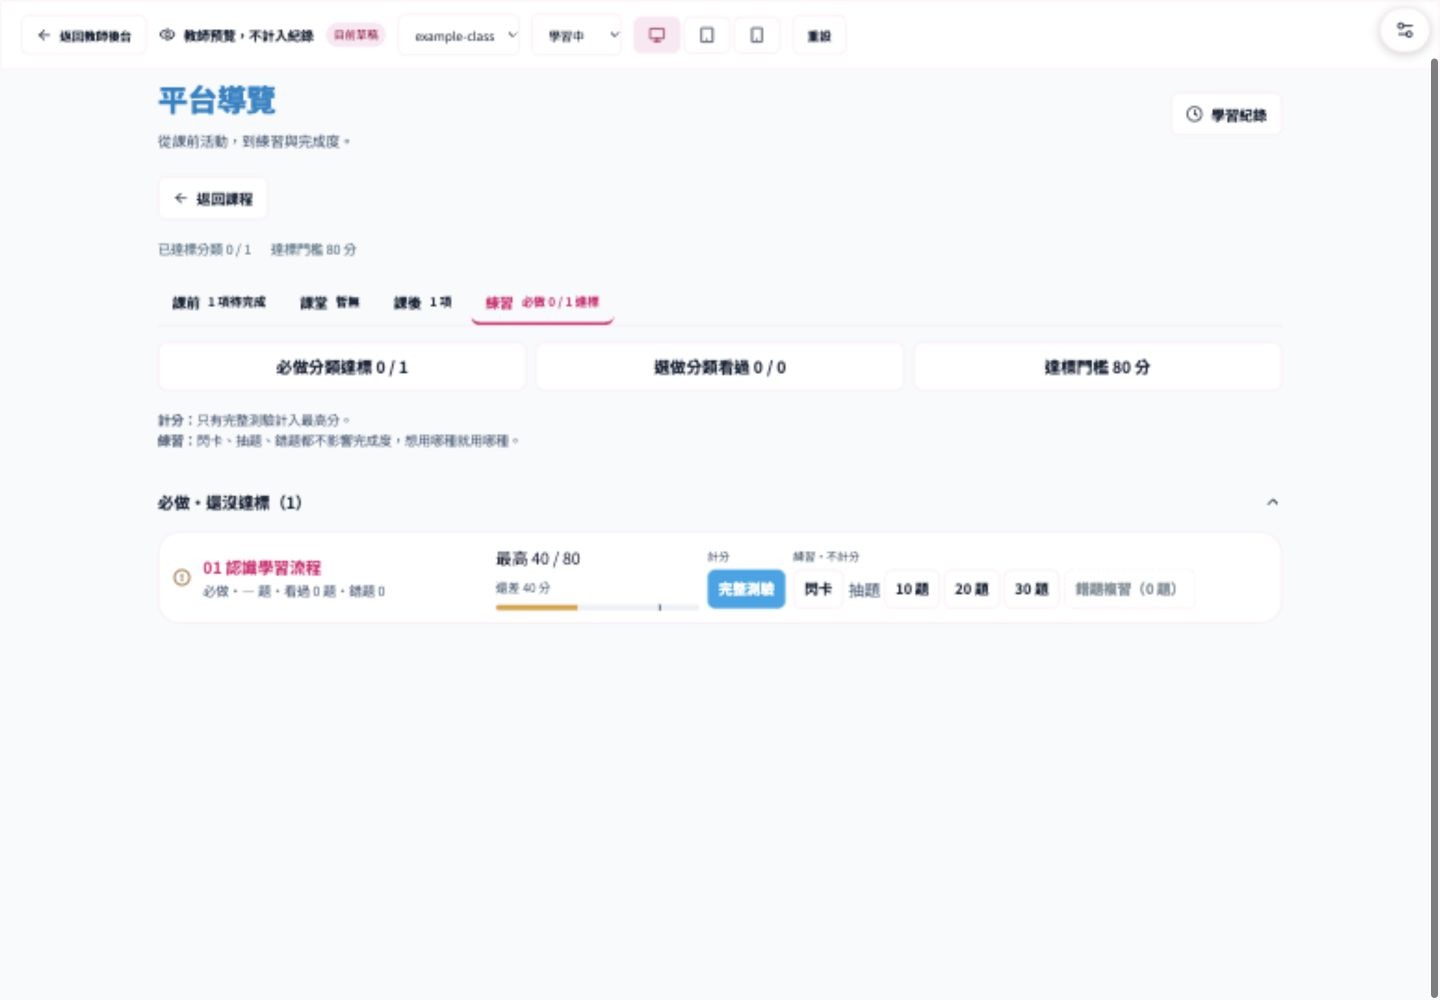
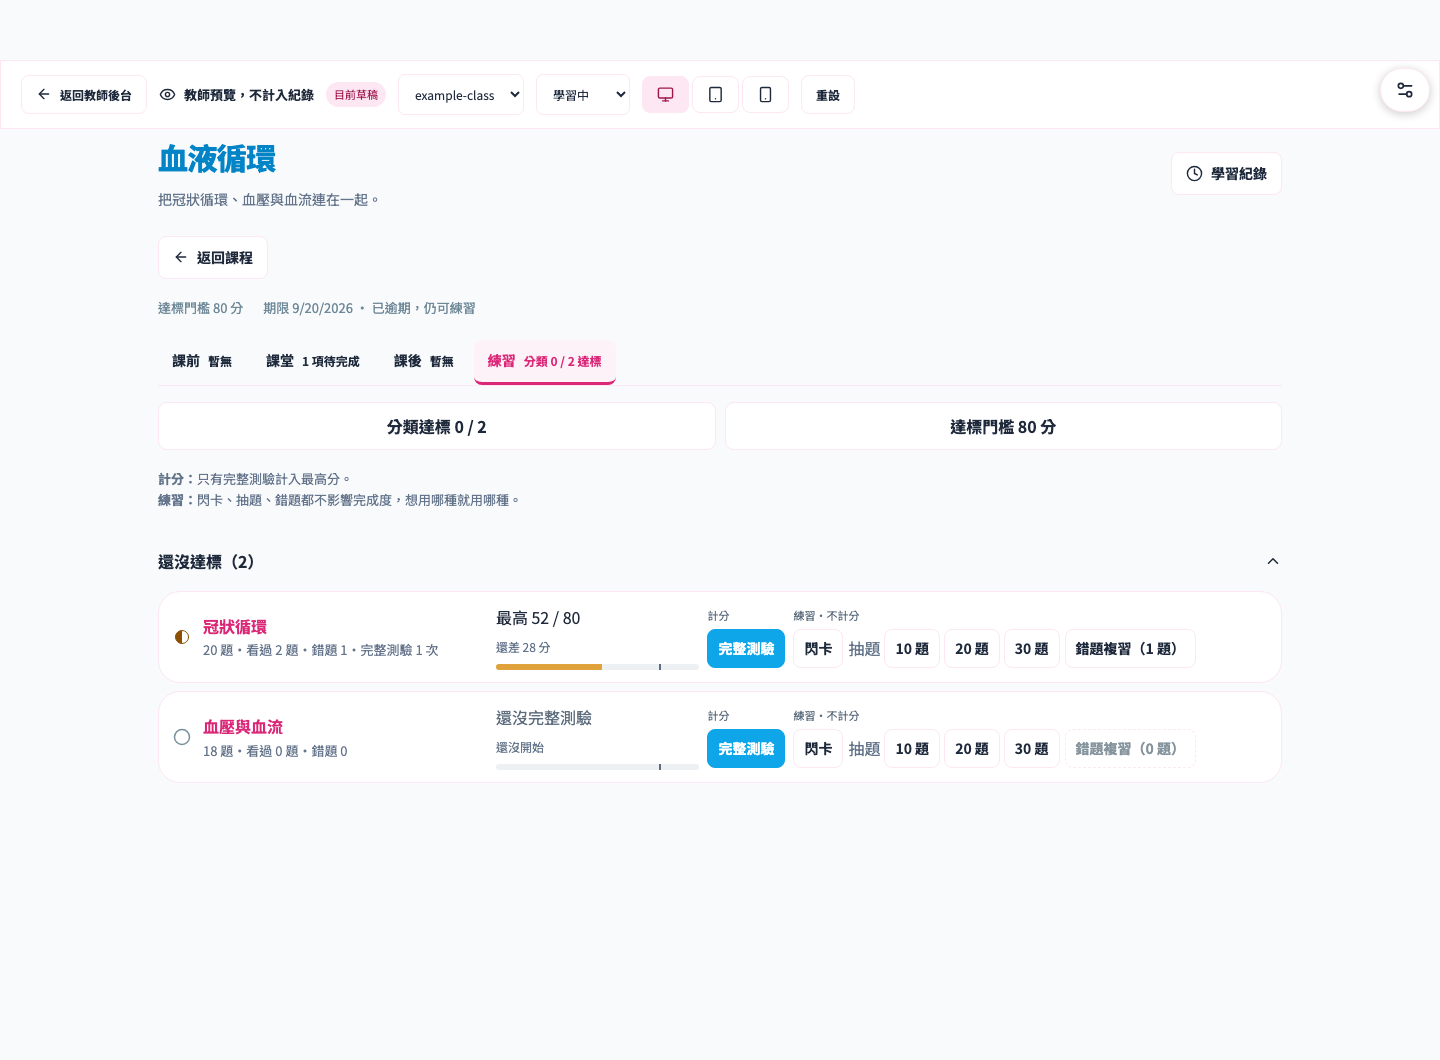
fix: 1.6.0 第三輪收尾——範例課程涵蓋各狀態、下一步顯示分數、驗收紀錄 [Claude]
Claude-Session: https://claude.ai/code/session_01K3TfDPLfPyvFhU8NB28CDy

diff --git a/src/service.ts b/src/service.ts
@@ -111,6 +111,10 @@ export const sampleQuestions: Question[] = [
   },
 ];
 export function sampleCourse(): Course {
+  const unit = (id: string, title: string, group: string, questionCount: number, required = true): Course['units'][number] => ({
+    id, title, group, description: `${title}題目分類`, required, threshold: 80,
+    opensAt: '', dueAt: '', bankVersion: `example-${id}-v1`, questionCount, activities: [],
+  });
   const course: Course = {
     id: 'example-course',
     title: '課程平台・操作示例',
@@ -119,50 +123,86 @@ export function sampleCourse(): Course {
     classIds: ['example-class'],
     sheetsUrl: '',
     units: [
+      unit('heart-structure', '心臟構造', '心臟基礎', 24),
+      unit('cardiac-cycle', '心動週期與心音', '心臟基礎', 30),
+      unit('coronary-flow', '冠狀循環', '血液循環', 20),
+      unit('blood-pressure', '血壓與血流', '血液循環', 18),
+      { ...unit('future-topic', '進階整合', '尚未開放', 16), opensAt: '2099-10-05T08:00' },
+      unit('extension-reading', '延伸閱讀題', '延伸學習', 12, false),
       {
-        id: 'orientation',
-        title: '01 認識學習流程',
-        description: '從課前活動，到練習與完成度。',
-        required: true,
-        threshold: 80,
-        opensAt: '',
-        dueAt: '',
-        bankVersion: 'example-v1',
-        activities: [
-          {
-            id: 'welcome',
-            title: '閱讀學習說明',
-            type: 'link',
-            phase: 'before',
-            url: 'https://www.youtube.com/',
-            description: '正式使用時請替換成自己的教材連結。',
-          },
-          {
-            id: 'practice',
-            title: '平台操作練習',
-            type: 'quiz',
-            phase: 'after',
-            url: '',
-            description: '使用三道示例題體驗一般測驗與閃卡。',
-          },
-        ],
+        ...unit('midterm-review', '期中複習考', '期中複習考', 20),
+        dueAt: '2026-09-22T23:59',
+        review: {
+          sourceUnitIds: ['heart-structure', 'cardiac-cycle'],
+          sourceVersions: { 'heart-structure': 'example-heart-structure-v1', 'cardiac-cycle': 'example-cardiac-cycle-v1' },
+          drawCount: 20, allocation: { 'heart-structure': 10, 'cardiac-cycle': 10 }, builtAt: 1,
+          history: [{ version: 'example-midterm-review-v1', drawCount: 20, allocation: { 'heart-structure': 10, 'cardiac-cycle': 10 }, builtAt: 1 }],
+        },
       },
     ],
   };
-  course.units[0].group = '平台導覽';
-  course.chapters = { 平台導覽: { title: '平台導覽', description: course.units[0].description, required: true, threshold: 80, opensAt: '', dueAt: '', activities: structuredClone(course.units[0].activities), research: { enabled: true } } };
-  course.chapterOrder = ['平台導覽'];
-  course.units[0].activities = [];
+  course.chapters = {
+    心臟基礎: {
+      title: '心臟基礎', description: '認識心臟構造、血流與心動週期。', required: true, threshold: 80,
+      opensAt: '', dueAt: '2026-10-06T23:59', research: { enabled: true },
+      activities: [
+        { id: 'heart-map', title: '互動心臟圖', type: 'html', tracking: 'interactive', phase: 'before', url: '', description: '依節點探索心臟構造。', required: true, nodeTotal: 6, questionTotal: 11 },
+        { id: 'heart-video', title: '心臟構造補充影片', type: 'youtube', phase: 'after', url: 'https://youtu.be/abcdefghijk', description: '選看補充影片。', required: false },
+      ],
+    },
+    血液循環: {
+      title: '血液循環', description: '把冠狀循環、血壓與血流連在一起。', required: true, threshold: 80,
+      opensAt: '', dueAt: '2026-09-20T23:59', research: { enabled: true },
+      activities: [{ id: 'flow-map', title: '血流路徑互動圖', type: 'html', tracking: 'interactive', phase: 'during', url: '', description: '依序完成血流節點。', required: true, nodeTotal: 6, questionTotal: 11 }],
+    },
+    尚未開放: { title: '尚未開放', description: '示範鎖定中的單元。', required: true, threshold: 80, opensAt: '2099-10-05T08:00', dueAt: '', activities: [] },
+    延伸學習: {
+      title: '延伸學習', description: '有餘力時自由探索，不計入完成度。', required: false, threshold: 80,
+      opensAt: '', dueAt: '', activities: [{ id: 'extension-video', title: '循環生理延伸影片', type: 'youtube', phase: 'after', url: 'https://youtu.be/abcdefghijk', description: '選看延伸內容。', required: false }],
+    },
+    期中複習考: { title: '期中複習考', description: '從已學分類抽題的複習作業。', required: true, threshold: 80, opensAt: '', dueAt: '2026-09-22T23:59', activities: [] },
+  };
+  course.chapterOrder = ['心臟基礎', '血液循環', '尚未開放', '延伸學習', '期中複習考'];
   return course;
+}
+export function sampleProgress(course: Course, state: string): Progress {
+  const progress = emptyProgress();
+  const now = Date.now();
+  if (state === 'none') return progress;
+  if (state === 'complete') {
+    for (const unit of course.units) progress.units[unit.id] = { best: 100, attempts: 2, fullAttempts: 2, updatedAt: now, passedAt: now };
+    for (const [name, chapter] of Object.entries(course.chapters || {})) {
+      for (const activity of chapter.activities) progress.activities[`chapter:${name}_${activity.id}`] = { position: activity.nodeTotal || 120, completed: true, updatedAt: now };
+    }
+    return progress;
+  }
+  progress.units = {
+    'heart-structure': { best: 88, attempts: 2, fullAttempts: 2, updatedAt: now, wrong: { 'example-heart-structure-v1': { 'example-2': { n: 1, at: now } } } },
+    'cardiac-cycle': { best: 84, attempts: 1, fullAttempts: 1, updatedAt: now },
+    'coronary-flow': { best: 52, attempts: 1, fullAttempts: 1, updatedAt: now, wrong: { 'example-coronary-flow-v1': { 'example-1': { n: 2, at: now } } } },
+    'extension-reading': { best: -1, attempts: 1, updatedAt: now },
+    'midterm-review': { best: 92, attempts: 1, fullAttempts: 1, updatedAt: now, passedAt: Date.parse('2026-09-24T08:00:00+08:00') },
+  };
+  progress.attempted = {
+    'heart-structure': { 'example-1': true, 'example-2': true, 'example-3': true },
+    'cardiac-cycle': { 'example-1': true, 'example-2': true },
+    'coronary-flow': { 'example-1': true, 'example-2': true },
+    'extension-reading': { 'example-1': true },
+  };
+  progress.activities = {
+    'chapter:心臟基礎_heart-map': { position: 6, completed: true, updatedAt: now },
+    'chapter:心臟基礎_heart-video': { position: 95, completed: false, updatedAt: now },
+    'chapter:血液循環_flow-map': { position: 3, completed: false, updatedAt: now },
+    'chapter:延伸學習_extension-video': { position: 180, completed: true, updatedAt: now },
+  };
+  return progress;
 }
 export function memoryApi(initial = sampleCourse(), bank: Question[] = sampleQuestions): API {
   let draft = structuredClone(initial),
     published = structuredClone(initial),
     progress = emptyProgress();
   const attempts: Attempt[] = [];
-  const banks = new Map<string, Question[]>([
-    [initial.units[0]?.bankVersion || 'example-v1', bank],
-  ]);
+  const banks = new Map<string, Question[]>(initial.units.filter((unit) => !!unit.bankVersion).map((unit) => [unit.bankVersion, bank]));
   const reports = new Map<string, Report>(),
     seen = new Map<string, Record<string, Seen>>();
   let roster: any[] = [],

diff --git a/src/Student.tsx b/src/Student.tsx
@@ -57,7 +57,7 @@ import {
   UnitProgressSummary,
   itemStatusForCategory,
 } from '../shared/model';
-import { API, cachedBank, enqueue, dequeue, pending } from './service';
+import { API, cachedBank, enqueue, dequeue, pending, sampleProgress } from './service';
 import { Youtube, HtmlMaterial } from './Player';
 import { parseStudentRoute } from './studentRoute';
 import ThemePicker from './ThemePicker';
@@ -170,15 +170,7 @@ export default function Student({
       .then((p) => {
         if (!active) return;
         if (preview && sim !== 'none') {
-          p = emptyProgress();
-          course.units.forEach((u, i) => {
-            if (sim === 'complete' || i === 0)
-              p.units[u.id] = {
-                best: sim === 'complete' ? 100 : 40,
-                attempts: 1,
-                updatedAt: Date.now(),
-              };
-          });
+          p = sampleProgress(course, sim);
         }
         if (preview) void api.call('setPreviewProgress', { progress: p });
         setProgress(p);
@@ -505,8 +497,8 @@ function ProgressUnitCard({ index, row, progress, route }: { index: number; row:
     <header><span className="unitnumber">{String(index).padStart(2, '0')}</span><span className="badge">{review ? '作業・複習考' : summary.required ? '必做單元' : '選看單元'}</span>{summary.required && <span className={`status status-${summary.state}`}>{summary.state === 'overdue' && <AlertCircle size={15} aria-hidden="true" />}{review && summary.state === 'done' && isOverdue(chapter, progress.units[units[0].id]) ? '已完成（逾期）' : statusLabel}</span>}<button className="expand" aria-expanded={expanded} aria-label={`${expanded ? '收合' : '展開'}${chapter.title}`} onClick={open}>{expanded ? <ChevronUp size={18} /> : <ChevronDown size={18} />}</button></header>
     <button className="progress-unit-title" onClick={() => go()}><h3>{chapter.title}</h3><strong>{summary.required ? `完成 ${summary.doneCount} / ${summary.totalCount} 項` : `看過 ${[...categories, ...optionalActivities].filter((item) => item.status !== 'todo').length} / ${categories.length + optionalActivities.length} 項`}</strong></button>
     {review && <p>每次 {units[0].review!.drawCount} 題・需達 {chapter.threshold} 分</p>}{summary.dueAt && summary.required && summary.state !== 'done' && <p className={summary.state === 'overdue' ? 'due overdue' : 'due'}>期限 {new Date(summary.dueAt).toLocaleDateString()}・{summary.daysLeft! < 0 ? `已過 ${Math.abs(summary.daysLeft!)} 天` : `還有 ${summary.daysLeft} 天`}</p>}
-    {summary.required && <><div className="progress-dots" aria-label={`必做項目完成 ${summary.doneCount} / ${summary.totalCount}`}>{summary.requiredItems.map((item) => <i key={`${item.kind}-${item.id}`} className={`dot ${item.status} ${summary.state === 'overdue' && item.status !== 'done' ? 'late' : ''}`} />)}</div><p>題目分類 {categories.filter((item) => item.status === 'done').length} / {categories.length} 達標・活動 {activities.filter((item) => item.status === 'done').length} / {activities.length} 完成</p></>}
-    {summary.required && summary.next && summary.state !== 'done' && <button className={`next-step ${summary.state === 'overdue' ? 'late' : ''}`} onClick={() => go(summary.next)}>{review ? `開始作答（${units[0].review!.drawCount} 題）` : <>{summary.next.required ? (summary.next.kind === 'category' ? '還沒達標：' : '還沒完成：') : '選做：'}{summary.next.title}<span>{summary.next.kind === 'category' ? '去練習' : '前往'}</span></>}</button>}
+    {summary.required && <><div className="progress-dots" aria-label={`必做項目完成 ${summary.doneCount} / ${summary.totalCount}`}>{summary.requiredItems.map((item) => <i key={`${item.kind}-${item.id}`} className={`dot ${item.status} ${summary.state === 'overdue' && item.status !== 'done' ? 'late' : ''}`} />)}</div><p>{[categories.length ? `題目分類 ${categories.filter((item) => item.status === 'done').length} / ${categories.length} 達標` : '', activities.length ? `活動 ${activities.filter((item) => item.status === 'done').length} / ${activities.length} 完成` : ''].filter(Boolean).join('・')}</p></>}
+    {summary.required && summary.next && summary.state !== 'done' && <button className={`next-step ${summary.state === 'overdue' ? 'late' : ''}`} onClick={() => go(summary.next)}>{review ? `開始作答（${units[0].review!.drawCount} 題）` : <>{summary.next.required ? (summary.next.kind === 'category' ? '還沒達標：' : '還沒完成：') : '選做：'}{summary.next.title}{summary.next.kind === 'category' && (summary.next.best ?? -1) >= 0 ? `（最高 ${summary.next.best} / ${chapter.threshold} 分）` : ''}<span>{summary.next.kind === 'category' ? '去練習' : '前往'}</span></>}</button>}
     {expanded && <ProgressDetails categories={categories} activities={activities} optionalActivities={optionalActivities} threshold={chapter.threshold} />}
   </article>;
 }

diff --git a/docs/PROGRESS_UI_1.6.0_ACCEPTANCE.md b/docs/PROGRESS_UI_1.6.0_ACCEPTANCE.md
@@ -34,3 +34,56 @@
 19. `tests/preview.test.ts` 仍在比對舊文案（如 `/已達標分類/`、`最高分 \{bestLabel\}`）；請更新為新介面實際文案，避免測試保護到已移除的畫面。
 
 修正完成後在 handoff 標示「1.6.0 第二輪待 Claude 驗收」。仍不 push、不部署。
+
+---
+
+# 第二輪驗收（2026-09-29 晚）
+
+對象：`bb6f734..0b46847`｜結果：**第一輪 A、B、C 大致完成，但有 1 項回歸錯誤與 5 項小修，修正後即可通過**
+
+已確認：v4 公式與 v3 並存、`summarizeUnit` 排除無題庫分類、選看單元整體視為選做、舊活動鍵 fallback、鎖定單元不進待辦、複習考標示補回、`focus` 定位與高亮、展開內容分組與收合、狀態圖示、手機「練習 ▾」選單、flashcard 不寫 `passedAt` 的 functions 測試、截圖。
+
+## 必修
+
+20. **回歸：`forClass()` 不再把單元（Chapter）的必做設定帶到題目分類**。原本 `required: chapter.required`（含各班覆寫），現在刪掉了，改用分類自己的 `u.required`。但下列地方仍把 `u.required` 當成「該班此單元是否必做」使用：
+    - `src/App.tsx` 完成度看板「待完成」欄與 CSV 匯出「待完成」欄（`forClass(...).units.filter((u) => u.required && !complete(...))`）→ 班級覆寫為「非必做」的單元，現在仍會列為待完成。
+    - `functions/src/index.ts` `saveCourse` 的「尚未指定題庫」檢查。
+    - `unitCompletion()` v1／v2 歷史公式。
+    修正：`forClass()` 恢復 `required: chapter.required`（見第 26 項：題目分類一律必做）。加測試：班級覆寫單元為非必做時，教師看板待完成不列出該單元的分類；v1／v2 結果與 1.5.x 相同。
+21. **單元頁頂端舊統計仍在**：`src/Student.tsx` 約 396 行「已達標分類 x / y」仍把選做分類算入分母、把無題庫分類算成已達標，與練習分頁標籤數字不一致。刪除這一行（分頁標籤與練習分頁摘要已顯示同樣資訊），只保留「達標門檻 80 分」或一併刪除。
+
+## 小修
+
+22. 首頁展開的「學習活動」把選做活動混進課前／課堂／課後分組，分組標題「課後・0 / 1 完成」因此把選做算進去（截圖中的「平台操作練習」）。分組只放必做活動；選做活動與選做分類一起放在最下方「選做（不計完成度）」收合列。
+23. `partial` 狀態目前用驚嘆號圖示（`AlertCircle`），與「逾期」的語意撞在一起。`partial` 改用半圓（lucide 無半圓時可用 `CircleDashed` 以外的自繪 SVG 半實心圓），驚嘆號只留給逾期。
+24. （併入第 26 項）
+25. 截圖只用了 1 個單元、1 個分類的範例課程，看不到多分類、選做、已達標、逾期、未開放、選看單元與複習考卡片。請在教師預覽用一份能涵蓋這些狀態的範例資料重拍首頁（收合、展開）與練習分頁；截圖寬度至少 1280（目前字太小難以辨識）。
+
+## 教師決定（2026-09-29 晚）：題目分類一律必做
+
+26. 教師確認**題目分類一定是必做**，沒有「選做分類」。「選做／選看」只存在於兩個層級：**整個單元**（`Chapter.required === false`）與**學習活動**（`Activity.required` 覆寫）。請：
+    - **撤回完成度公式 v4**：`CURRENT_COMPLETION_FORMULA_VERSION` 改回 3，刪除 v4 分支與其測試（盤點結果 0 位學生受影響，撤回無資料影響）；`chapterCompletion` 回到 v3 寫法。
+    - `summarizeUnit`：分類的 `required` 一律等於單元的 `required`，不讀 `u.required`。
+    - 練習分頁：移除「選做・不計完成度」分類區與「選做分類看過」卡片；摘要改為「分類達標 x / y」「達標門檻 80 分」兩欄；列上的「必做／選做」字樣移除（選看單元內的分類以淡色列呈現即可，不另標）。
+    - 首頁展開：移除「選做題目分類」收合列；最下方「選做（不計完成度）」只放選做活動。
+    - 規格 `docs/1.6.0-學習進度介面規格.md`「教師的決定」第 5 點改為「題目分類一律必做；選做只在單元與活動層級」，並刪去各節的選做分類描述；`handoff.md` 固定決策同步。
+
+修正後在 handoff 標示「1.6.0 第三輪待 Claude 驗收」。仍不 push、不部署。
+
+---
+
+# 第三輪驗收（2026-09-29 夜）— **通過**
+
+對象：`76b7216`、`01b4845` 與 Claude 接手的收尾 commit（Codex 中途停止，未提交的範例資料由 Claude 檢查後一併提交）。
+
+- 第 20 項：`forClass()` 已恢復 `required: chapter.required`（含班級覆寫），並有測試。
+- 第 21 項：單元頁頂端舊統計已移除，只留門檻與期限。
+- 第 22 項：選做活動已移出課前／課堂／課後分組，只放在「選做（不計完成度）」收合列。
+- 第 23 項：做到一半改用半實心圓，驚嘆號只用於逾期。
+- 第 25 項：教師預覽範例課程擴充為五個單元（已完成、逾期、未開放、複習考逾期完成、選看單元），首頁收合／展開、練習分頁截圖已依新資料重拍（1440 寬）。手機練習選單截圖仍是第二輪資料，功能未變。
+- 第 26 項：公式回到 v3、分類必做跟隨單元、練習分頁與首頁的選做分類畫面已移除；規格與 handoff 已同步。
+- Claude 收尾小修：首頁卡片「下一步」在分類有分數時加註「（最高 x / 門檻 分）」；卡片統計行在沒有必做活動時不再顯示「活動 0 / 0 完成」（複習考卡片）。
+
+驗證（Claude 在隔離的 Linux 副本重新安裝相依套件後執行）：前端測試 108/108、`tsc -b` 與 `vite build` 通過、Functions build 與測試 16/16 通過。
+
+**尚待教師**：在教師預覽（範例課程、學習中狀態）實際點一次首頁與練習分頁，滿意後再合併與部署。部署前另需實測：學生以完整閃卡滿分作答後最高分不變、完整測驗達標後單元變為已完成。

diff --git a/handoff.md b/handoff.md
@@ -21,7 +21,7 @@
 | 正式站 | **1.5.0**。`origin/main`＝`82e7140`（2026-09-23 部署：Functions 39 個 Deploy complete、Pages Actions 成功、`version.json`＝1.5.0） |
 | 開發分支 | `feature/1.5.0-review-exam` 已等於正式 main；本機 `main` 未更新（deploy.sh 不動本機 main） |
 | 1.5.0 複習考 | 已上線。規格 `docs/REVIEW_EXAM_1.5.0.md` |
-| 1.6.0 學習進度介面 | **1.6.0 第二輪待 Claude 驗收**。`feature/1.6.0-progress-ui`：第一輪三個 commit `3520b89`、`8f94197`、`959af99` 原樣保留，第二輪依 A → B → C 追加。A-1 正式 Firestore 唯讀盤點（2026-09-29）：1 份 course、101 份 progress、已發布選做分類 0 個；逐學生逐單元比較 v3 與 v4，完成狀態改變 **0 位學生／0 個單元**。首頁維持單一 progress 文件，新增讀取 0 次。現有 progress 活動欄位只有 `position/completed/updatedAt`，沒有已看節點數與已答題數；首頁因此以 `position` 顯示「節點 x / y」，無法顯示題目 x / y，未為此增加讀取。截圖在 `docs/progress-ui-1.6.0-screenshots/`；未 push、未合併、未部署。 |
+| 1.6.0 學習進度介面 | **1.6.0 第三輪修正完成，待教師在教師預覽確認後合併**。`feature/1.6.0-progress-ui`：第一輪 `3520b89`、`8f94197`、`959af99`，第二輪 `bb6f734`、`8a4c89f`、`0b46847`，第三輪 `76b7216`、`01b4845` 與 Claude 接手的收尾 commit。教師決定題目分類一律必做，v4 已撤回、公式維持 v3（盤點 101 份 progress，v3／v4 差異 0）。`forClass()` 恢復以 Chapter（含班級覆寫）決定分類必做。首頁維持單一 progress 文件，新增讀取 0 次。progress 活動欄位只有 `position/completed/updatedAt`，互動教材只能顯示「節點 x / y」。教師預覽範例課程已擴充為涵蓋已完成、逾期、未開放、複習考、選看單元的示例資料；截圖在 `docs/progress-ui-1.6.0-screenshots/`（手機選單截圖為第二輪舊資料）。驗收紀錄 `docs/PROGRESS_UI_1.6.0_ACCEPTANCE.md`。未 push、未合併、未部署。 |
 | 教材元件庫 v1 | `feature/material-kit`：心臟構造樣板已完成，待 Claude 驗收；其他教材尚未轉換 |
 | 心臟構造圖像強化版 v2 | `feature/heart-structure-v2`：第二輪（版型比照傳導系統 v2、閱讀提示與窄版捲動）**2026-09-25 Claude 驗收通過**；Claude 將節點示意圖改為 HTML 方塊修正文字溢框。已登錄目錄。待教師以 deploy.sh 從此分支部署。 |
 | 未追蹤檔 | `public/materials/coagulation-v1/`：既有資料，不要碰、不要 commit（已列入本機 `.git/info/exclude`，deploy.sh 的乾淨檢查不會被擋） |
@@ -63,7 +63,7 @@ zsh -ilc 'source ~/.nvm/nvm.sh && nvm use 22.23.2 >/dev/null && bash ~/Documents
 
 **單元模型（1.4.0，`docs/UNIT_MODEL_1.4.0.md`）**
 7. Sheet「單元」＝`Chapter`：開放、期限、門檻、必做、班級覆寫、活動、看板移動、完成度計數都在此層。Sheet「次單元」＝`Unit`（題目分類）：題庫版本、進度、錯題、完整測驗範圍。
-8. 單元完成＝底下每個必做且已發布分類的完整測驗最高分 ≥ 單元門檻，且必做活動完成。1.6.0 起完整閃卡只作練習，舊閃卡最高分保留、不重算；選做分類與活動不計完成度。完成度公式版本 4（`CURRENT_COMPLETION_FORMULA_VERSION`）；v3 原樣保留，舊結算快照用原版本。
+8. 單元完成＝底下每個已發布題目分類的完整測驗最高分 ≥ 單元門檻，且必做活動完成。題目分類一律必做（沒有選做分類）；「選做／選看」只在單元（`Chapter.required`，可班級覆寫）與活動（`Activity.required` 覆寫，未設定沿用類型推導）兩個層級，不計完成度。1.6.0 起完整閃卡只作練習，舊閃卡最高分保留、不重算。完成度公式版本 3（`CURRENT_COMPLETION_FORMULA_VERSION`）。
 9. 單元活動進度鍵 `chapter:<單元名>_<activityId>`。綜合練習只含看板「目前」的分類，且不含複習考。
 
 **複習考（1.5.0，`docs/REVIEW_EXAM_1.5.0.md`）**
